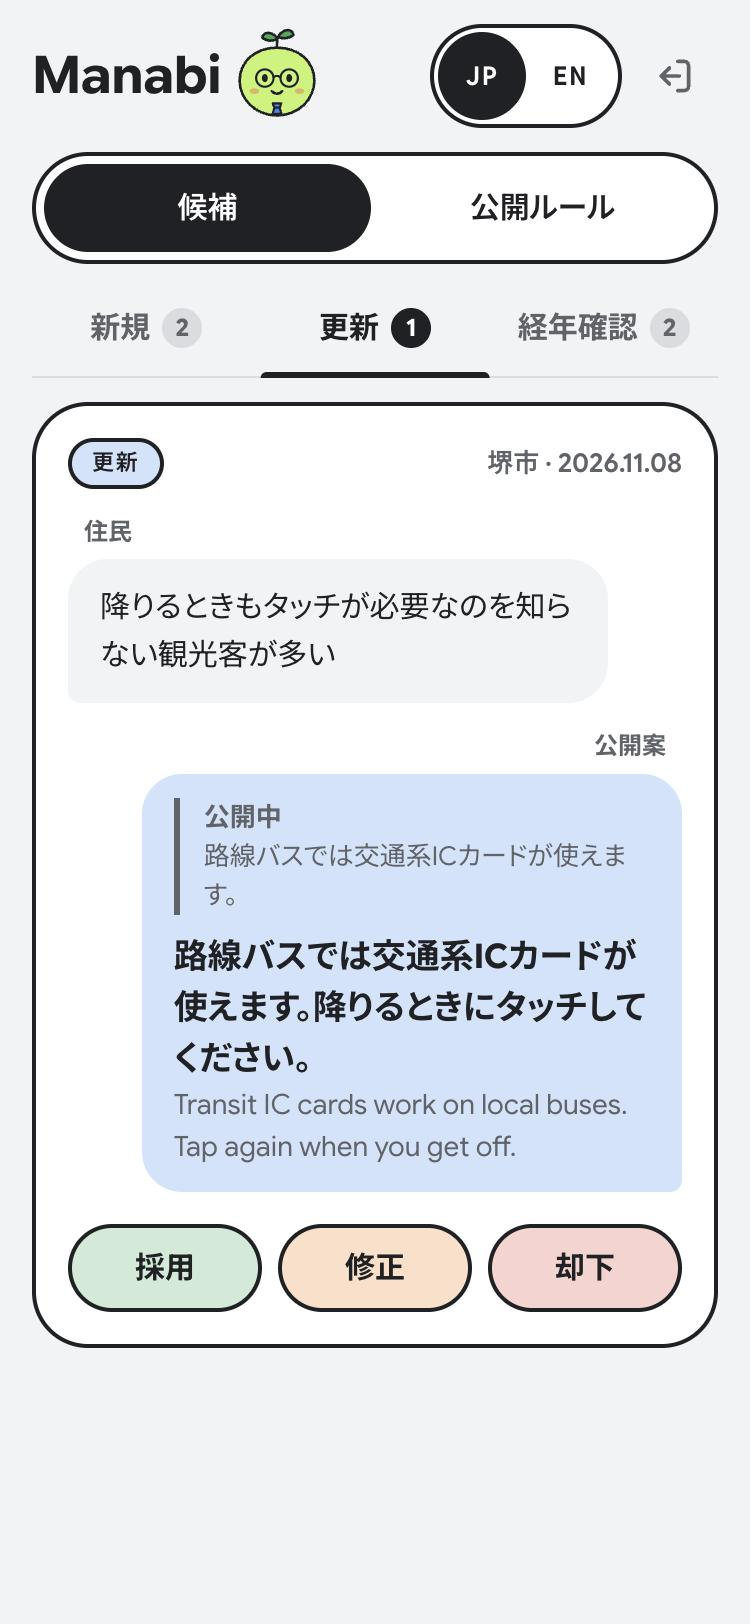
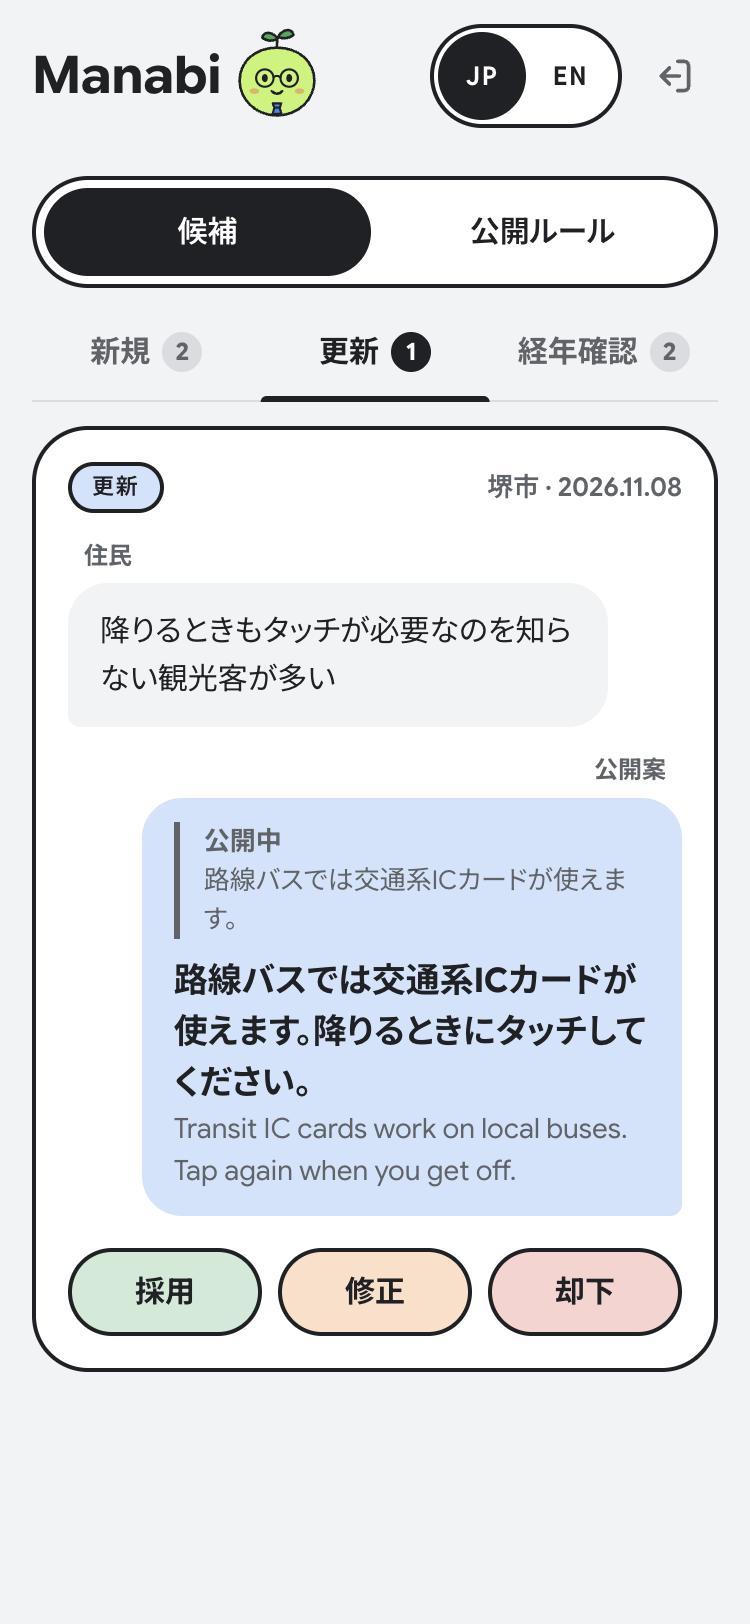
Give the admin header rows more room on phones
24px between the logo row and the candidates / rules switch; refresh screenshots.

Changed region(s): [[0.0307, 0.431, 0.9813, 0.8621], [0.0307, 0.0924, 0.9813, 0.431]]

diff --git a/frontend/React/src/components/AdminHeader.module.css b/frontend/React/src/components/AdminHeader.module.css
@@ -5,7 +5,8 @@
     "brand end"
     "nav nav";
   align-items: center;
-  gap: var(--space-3);
+  /* More room between the logo row and the switch on phones, so the top doesn't feel packed. */
+  gap: var(--space-6) var(--space-3);
   padding: max(var(--space-3), env(safe-area-inset-top)) 0 0;
 }
 
